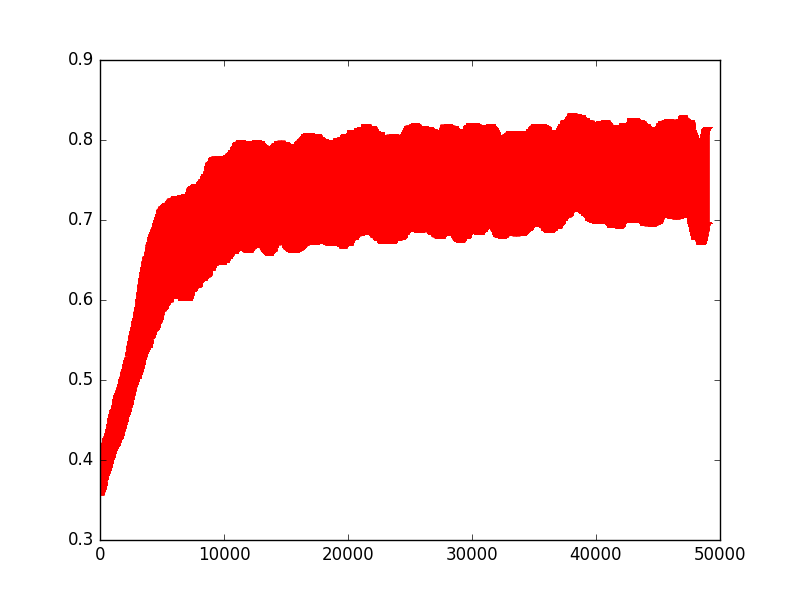
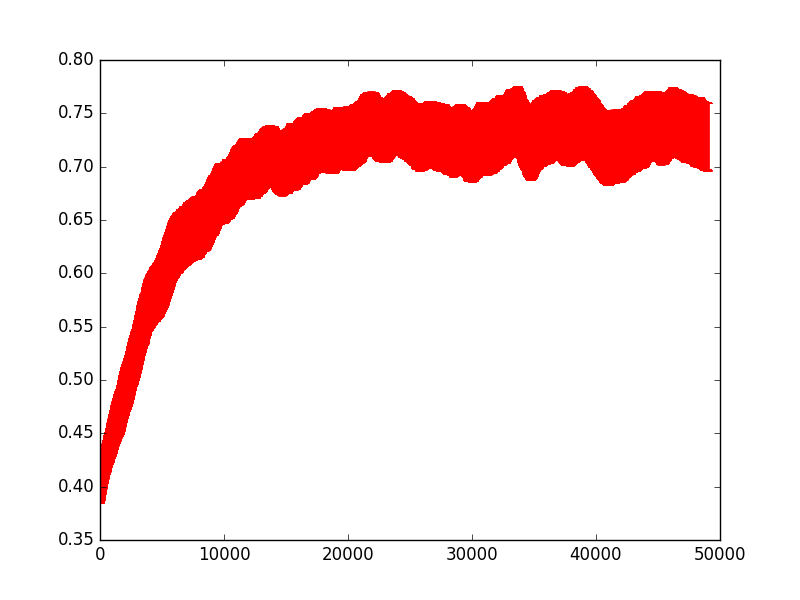
nearing completion but need to rerun some things

diff --git a/report.tex b/report.tex
@@ -15,8 +15,8 @@
 {Kenny Young}
 \end{center}
 \section*{Introduction}
-Most reinforcement learning techniques assume the environment has the Markov property, meaning that the future state is independent of the past states give the present states. Put another way this assumes the agent has all the information it needs to make an optimal decision at each time and therefore has no need to remember the past. This is however not realistic in general, realistic problems often require significant information from the past in order to make an informed decision in the present and there is often no obvious way to incorporate the relevant information into an expanded present state. It is therefore desirable to establish general techniques for learning a compact representation of the relevant details of the past (i.e. a memory, or learned state) in order to facilitate decisions in the present.
-Most modern attempts to tackle this problem make use of variations of recurrent neural networks trained with back-propagation through time. This can work well for many tasks, but generally requires backpropogating many steps into the past which is not practical in an online reinforcement learning setting. In this work we attempt to address the problem of memory without explicit backpropogation through time. To do this we propose a method for learning over time which information should be written to and read from a lossy external memory. If an RNN can be considered a working memory the technique presented here is more similar to episodic memory, choosing which complete states to remember and recall in order to perform the present task.
+Most reinforcement learning techniques assume the environment has the Markov property, meaning that the future state is independent of the past states given the present state. Put another way this assumes the agent has all the information it needs to make an optimal decision at each time and therefore has no need to remember the past. This is however not realistic in general, realistic problems often require significant information from the past in order to make an informed decision in the present and there is often no obvious way to incorporate the relevant information into an expanded present state. It is therefore desirable to establish general techniques for learning a compact representation of the relevant details of the past (i.e. a memory, or learned state) in order to facilitate decision making in the present.
+Most modern attempts to tackle this problem make use of variations of recurrent neural networks trained with back-propagation through time. This can work well for many tasks, but generally requires backpropagating many steps into the past which is not practical in an online reinforcement learning setting. In this work we attempt to address the problem of memory without explicit backpropagation through time. To do this we propose a method for learning over time which information should be written to and read from a lossy external memory and which information we can afford to ignore. If an RNN can be considered a working memory the technique presented here is more similar to episodic memory, choosing which complete states to remember and recall in order to perform the present task.
 
 \section*{Problem}
 As a proof of concept for our proposed method we propose a toy problem we call ``the secret informant problem'' which requires an agent to figure out what information from past states is informative about the correct decision to make in the future. The environment consists of a chain of states each represented by a feature vector. In each state k possible actions are available (we use k=3 throughout), however the action choice only changes the outcome in the final state where 1 of the three actions will yield a reward of $+1$ and the other 2 will yield $0$ reward. Which action will yield the reward is drawn uniformly for each episode of the problem and can be determined for a given episode only by looking at the feature vector of some past state (which we refer to as the informant state) prior to the state in which the choice must be made. The feature vector associated with each state is shown in figure \ref{fig:state}.
@@ -73,11 +73,11 @@ $$
 We can use this angle to find the estimated $\pmb{s}$ in memory ``closest'' to the query $\pmb{q}$ as described above. Note that since this optimal angle and the subsequent computation of the estimate $\pmb{s}$ described above are both differentiable almost everywhere, we can backpropogate through this to improve our generated queries $\pmb{q}$ in order to make use of our stored memories to achieve our specified task. We refer to the estimated $\pmb{s}$ recovered by this process (i.e. the value retrieved from memory in response to query $\pmb{q}$) as $\pmb{u}$.
 
 \subsection*{Training Write Network}
-As highlighted above the query portion of our network is fully differentiable and therefore trainable directly by backpropogation. In addition we have a second network whose purpose is to choose the write weight $r$ for the state at each time-step. While in principle the write portion of the network is also differentiable and could also be trained by a variant of backpropogation through time, the purpose of the present work is to design a method which avoids this, thus we instead use an update method which is strictly local in time. Our method attempts to approximate $\frac{d\sigma^2(Q(\pmb{s},a))}{dr(\pmb{u})}$ (i.e. the change in the variance of each action value in the current state over the change in the write weight associated with the current query). Using this estimate we then compute $\frac{d\sigma^2(Q(\pmb{s},a))}{\theta_{write}}=\frac{d\sigma^2(Q(\pmb{s},a))}{dr(\pmb{s})}\frac{dr(\pmb{u})}{\theta_{write}}$ for each parameter $\theta_{write}$ of the write network. This value is then used to perform gradient descent to tune the write network to generate weights which produce low average variance in the computed action values over all actions.
+As highlighted above the query portion of our network is fully differentiable and therefore trainable directly by backpropagation. In addition we have a second network whose purpose is to choose the write weight $r$ for the state at each time-step. While in principle the write portion of the network is also differentiable and could also be trained by a variant of backpropagation through time, the purpose of the present work is to design a method which avoids this, thus we instead use an update method which is strictly local in time. Our method attempts to approximate $\frac{d\sigma^2(Q(\pmb{s},a))}{dr(\pmb{u})}$ (i.e. the change in the variance of each action value in the current state over the change in the write weight associated with the current read value). Using this estimate we then compute $\frac{d\sigma^2(Q(\pmb{s},a))}{\theta_{write}}=\frac{d\sigma^2(Q(\pmb{s},a))}{dr(\pmb{u})}\frac{dr(\pmb{u})}{\theta_{write}}$ for each parameter $\theta_{write}$ of the write network. This value is then used to perform gradient descent to tune the write network to generate weights which produce low average variance in the computed action values over all actions.
 
 To approximate $\frac{d\sigma^2(Q(\pmb{s},a))}{dr(\pmb{u})}$ we first assume $\sigma^2(Q(\pmb{s},a)) = \left(\frac{dQ(\pmb{s},a)}{d\pmb{u}}\right)^2\sigma^2(\pmb{u})$, which is an assumption commonly employed to perform propagation of experimental errors in the physical sciences. Differentiating with respect to $r$ then gives us: 
-$$\frac{d\sigma^2(Q(\pmb{s},a))}{dr} = \left(\frac{dQ(\pmb{s},a)}{d\pmb{u}}\right)^2\frac{d\sigma^2(\pmb{u})}{dr(\pmb{q})}$$
-$\frac{dQ(\pmb{s},a)}{d\pmb{u}}$ is easily computed by ordinary backpropogation, but it remains to estimate $\frac{d\sigma^2(\pmb{u})}{dr(\pmb{q})}$. Since $\pmb{u}$ is generated from $m$ independent estimates, we can approximate $\sigma^2(\pmb{u})$ as the standard error in the mean computed from these $m$ samples. Approximating its derivative with respect to $r(\pmb{q})$ requires a bit more creativity. To do this we take $\pmb{u}$ to be the ``true'' value and take the difference of the estimates directed from individual samples from this value to be added noise terms $\pmb{\mathcal{N}_k}$ defined as follows:
+$$\frac{d\sigma^2(Q(\pmb{s},a))}{dr} = \left(\frac{dQ(\pmb{s},a)}{d\pmb{u}}\right)^2\frac{d\sigma^2(\pmb{u})}{dr(\pmb{u})}$$
+$\frac{dQ(\pmb{s},a)}{d\pmb{u}}$ is easily computed by ordinary backpropagation, but it remains to estimate $\frac{d\sigma^2(\pmb{u})}{dr(\pmb{u})}$. Since $\pmb{u}$ is generated from $m$ independent estimates, we can approximate $\sigma^2(\pmb{u})$ as the standard error in the mean computed from these $m$ samples. Approximating its derivative with respect to $r(\pmb{u})$ requires a bit more creativity. To do this we take $\pmb{u}$ to be the ``true'' value and take the difference of the estimates directed from individual samples from this value to be added noise terms $\pmb{\mathcal{N}_k}$ defined as follows:
 \begin{align*}
 \pmb{u_0}&=\frac{1}{m}\sum_{k=1}^m\pmb{u_{0k}}\\
 \bar{r}&=|\pmb{u_0}|_2\\
@@ -101,7 +101,7 @@ So the final result is just that the difference in each sampled estimate from th
 &=\frac{1}{m}\sum_{k=1}^m\left(\frac{\pmb{\mathcal{N}_k}}{r}\right)^2
 \end{align*}
 And finally we can differentiate this approximation with respect to $r$ to yield:
-$$\left.\frac{d\sigma^2(\pmb{u})}{dr}\right\rvert_{\bar{r}}=-\frac{2}{m}\sum_{k=1}^m\frac{\pmb{\mathcal{N}_k}^2}{\bar{r}}$$
+$$\left.\frac{d\sigma^2(\pmb{u})}{dr}\right\rvert_{\bar{r}}=-\frac{2}{m}\sum_{k=1}^m\frac{\pmb{\mathcal{N}_k}^2}{\bar{r}^3}$$
 At this point we now have all the ingredients to estimate $\frac{d\sigma^2(Q(\pmb{s},a))}{\theta_{write}}$ for a particular read value $\pmb{u}$ at a particular time-step. Not however that there is a hidden tradeoff, because the nature of the memory is that each written item interfere with all others. Hence if we increase the write weight assigned to one particular input state $\pmb{s}$ it will also increase the noise terms associated with all other written values. Applying the above approximate gradients naively will lead to all write weights gradually increasing (though at differing rates), which is not acceptable. To counter this, for now, we simply maintain an exponential moving average of $\frac{d\sigma^2(Q(\pmb{s},a))}{dr}$ and subtract this from the value at each time-step before performing the gradient descent update. This means that the write weight associated with the current read value $\pmb{u}$ will be increased only if it's associated $\frac{d\sigma^2(Q(\pmb{s},a))}{dr(\pmb{u})}$ surpasses the current moving average and will be decreased otherwise. To summarize we use:
 \begin{align*}
 \text{Effective Gradient}&=\left(\left(\frac{dQ(\pmb{s_t},a)}{d\pmb{u_t}}\right)^2\frac{d\sigma^2(\pmb{u_t})}{dr(\pmb{u_t})}-S_t\right)\frac{dr(\pmb{u_t})}{\theta_{write}}\\
@@ -110,7 +110,7 @@ S_{t+1} &=\alpha\left(\left(\frac{dQ(\pmb{s_t},a)}{d\pmb{u_t}}\right)^2\frac{d\s
 Where each term is approximated as discussed above, and we insert this ``effective gradient'' as the gradient for some gradient descent optimizer acting on all $\theta_{write}$ parameters of the write network at each time-step. In our experiments we use $\alpha=0.5$ in the moving average.
 
 \subsection*{Architecture}
-Our architecture for interacting with the memory an generating action values is shown in Figure \ref{fig:arch}. It consists of 4 major parts. Except where otherwise specified all activations are rectified linear.
+Our architecture for interacting with the memory and generating action values is shown in Figure \ref{fig:arch}. It consists of 4 major parts. Except where otherwise specified all activations are rectified linear.
 
 First is the query network which takes the state itself as input and consists of 2 relu layers followed by an identity layer which generates the query which is sent to the memory. Additionally the $2_{nd}$ layer of the query network is passed forward so that information about the current state is available for computing action values. 
 
@@ -127,9 +127,9 @@ Last we have the write network which is trained entirely separately from the oth
 \end{figure}
 
 \section*{Results}
-We run experiments on the secret informant problem (see Figure \ref{fig:problem}) with 4 noisy states and run for 50,000 episodes. Each layer of our model uses 15 units. We use Nesterov Momentum as our optimizer for both the write and action evaluation portions of the network as it was found to be reasonably stable compared to some other options tried. Learning rates were tuned by hand to achieve reasonable performance, it was found that in general training the write network with around $1/10_{th}$ the learning rate of the action evaluation network worked well. We use a memory with just 3 copies in our experiments. Results for 50 repetitions of this experiment, including the output of the write network in the informant state v.s. the average over all other states, are shown in Figure \ref{fig:1_query_mem_ret}.
+We run experiments on the secret informant problem (see Figure \ref{fig:problem}) with 4 noisy states and run for 50,000 episodes. Each layer of our model uses 15 units. We use Nesterov Momentum as our optimizer for both the write and action evaluation portions of the network as it was found to be reasonably stable compared to some other options tried. Learning rates were tuned by hand to achieve reasonable performance, it was found that in general training the write network with around $1/10_{th}$ the learning rate of the action evaluation network worked well. We use a memory with just 3 copies in our experiments. Results for 50 repetitions of this experiment, including the output of the write network in the informant state v.s. the average over all other states, are shown in Figure \ref{fig:1_query}.
 
-In addition to this main model we test two baselines. First to test the efficacy of the write network we run the model with $r$ fixed to 1 and the write network disabled. Second we run a model with essentially the same architecture as our action evaluation network but with the memory replaced by a GRU with 5 recurrent units trained using standard backpropogation through time. This last model is meant to give an idea of how difficult the task is for a traditional recurrent architecture but as it hasn't been all that thoroughly tuned it is not a very rigorous baseline. It should also be noted that our goal in this work was to avoid the need to perform backpropogation through time explicitly so any comparison there is not really fair.
+In addition to this main model we test two baselines. First to test the efficacy of the write network we run the model with $r$ fixed to 1 and the write network disabled. This means each visited state is written to the memory with equal intensity. Second we run a model with essentially the same architecture as our action evaluation network but with the memory replaced by a GRU with 5 recurrent units trained using standard backpropagation through time. This last model is meant to give an idea of how difficult the task is for a traditional recurrent architecture but as it hasn't been all that thoroughly tuned it is not a very rigorous baseline. It should also be noted that our goal in this work was to avoid the need to perform backpropagation through time explicitly so any comparison there is not really fair. Figure \ref{recurrent} shows  
 
 We also experimented with variants of our architecture which allowed for multiple queries on each time step which appeared in initial tests to speed up early learning somewhat, however it has so far been prone to instability so results are not included here. This would be more useful in cases where it is actually necessary to query the values of two distinct past states to make a decision in the current state.
 \begin{figure}[!ht]
@@ -137,7 +137,7 @@ We also experimented with variants of our architecture which allowed for multipl
 \begin{subfigure}[t]{.45\textwidth}
   \centering
       \includegraphics[width=1\textwidth]{images/1_query_mem_ret.png}
-  \caption{Returns over time for 1 query architecture. y-axis is return, x-axis is number of training episodes.}
+  \caption{Returns over time for memory based architecture. y-axis is return, x-axis is number of training episodes.}
   \label{fig:1_query_ret}
 \end{subfigure}\hfill
 \begin{subfigure}[t]{.45\textwidth}
@@ -146,29 +146,38 @@ We also experimented with variants of our architecture which allowed for multipl
   \caption{Write weight for informant state (blue) and average write weight for all other states (green). y-axis is write weight, x-axis is number of training episodes.}
   \label{fig:1_query_write}
 \end{subfigure}
-\caption{Results for architecture with 1 query}
+\caption{Results for memory based architecture. In each case displayed results are averaged over 50 runs with the width of the curve indicating standard error in the mean.}
 \label{fig:1_query}
 \end{figure}
 
 \begin{figure}[!ht]
 \center
-\includegraphics[width=0.5\textwidth]{images/1_query_mem_ret_no_write.png}
-\caption{Returns over time for 1 query architecture but with write weight fixed to 1 for all time steps. y-axis is return, x-axis is number of training episodes. This is not exactly conclusive but comparing to Figure \ref{fig:1_query_ret} it does appear that using write weight tuning helps to improve the return faster.}
-\label{fig:1_query_no_write}
-\end{figure}
-
-\begin{figure}[!ht]
-\center
-\includegraphics[width=0.5\textwidth]{images/recurrent_ret.png}
-\caption{Returns over time for recurrent baseline. y-axis is return, x-axis is number of training episodes.}
-\label{fig:recurrent}
+\includegraphics[width=0.5\textwidth]{images/combined_ret.png}
+\caption{Returns over time for memory based architecture and two baselines. Main memory based architecture with write weight tuning is shown in red, memory based architecture with write weight tuning disabled is shown in blue, recurrent architecture is shown in green. y-axis is return, x-axis is number of training episodes.}
+\label{fig:comparison}
 \end{figure}
 
 \section*{Discussion}
+The results are mixed in terms of demonstrating the feasibility of our suggested memory system and write weight training. While Figure \ref{fig:1_query_write} suggests our write weight training mechanism is able to learn to separate informative from uninformative states, we can see in Figure \ref{fig:comparison} that our write weight tuning nevertheless hurts performance compared to simply fixing all write weights at 1. The reason for this is likely that although on average we learn to write useful states more strongly the variance over runs is extremely high and occasionally the useful states do end up being written significantly less strongly. What is likely happening is that the performance cost of these occasional failures is high enough compared to the gain from the more frequent successes that overall performance is hindered. 
+
+Our system also seems to lose out somewhat to a standard recurrent architecture, however this in itself is not too meaningful as our purpose here is to explore memory mechanisms which avoid the need to perform explicit backpropagation through time which is exactly what is done by the recurrent model tested.
+
+It should be noted that the mechanism presented here for training the write network is not particular to the memory system used here but is actually quite broadly applicable. Essentially all that is required to use our write weight training algorithm is a system with roughly the following components:
+\begin{itemize}
+\item A memory is capable of storing and recalling vectors with a tuneable fidelity parameter, where improved recall of one memory will hurt can be traded off for poor recall of others
+\item A differentiable function mapping the recalled memory to some value whose variance we wish to minimize (in our case learned action values)
+\item A way of estimating the derivative of standard error in the mean of a value read from memory with respect to it's associated fidelity parameter at write time(in our case we use an approximated derivative of the sample standard deviation over several independent copies)
+\end{itemize}
+Thus despite the failure of the tuned write weights to aid in performance we are encouraged by the evidence of our ability to successfully tune write weights based on utility of the information contained in a state.
 
 \section*{Conclusion}
 
-\section*{Future Work}
+\section*{Limitations and Future Work}
+This work is intended primarily as a proof of concept for systems the operate on some form of variable fidelity memory mechanism and learn write weights based on how the read values impact a systems ability to consistently achieve some primary task. As such there are likely numerous theoretical and practical improvements that could be made, as well as far more empirical testing that to be done. 
+
+First of all the memory mechanism itself is far from perfect. Significant improvement could likely be derived from more thorough theoretical investigation of such mechanisms and more precise formulation of exactly what properties we would like the memory to display. Under the current mechanism it is not clear at all how we should interpret the read value when the query made has a nonzero dot-product with multiple previously written values which is something we hope to improve on through more investigation.
+
+
 
 
 \begin{thebibliography}{plain}
@@ -185,7 +194,7 @@ Danihelka, I., Wayne, G., Uria, B., Kalchbrenner, N., and Graves, A. (2016) Asso
 Graves, A. et al. (2016) Hybrid Computing Using a Neural Network with Dynamic External Memory. Nature 538, 471-476.
 
 \bibitem{RARE}
-Kaiser, Lukasz, et al. "Learning to remember rare events." arXiv preprint arXiv:1703.03129 (2017).
+Kaiser, Lukasz, et al. (2017) Learning to remember rare events. arXiv preprint arXiv:1703.03129.
 \end{thebibliography}
 
 
